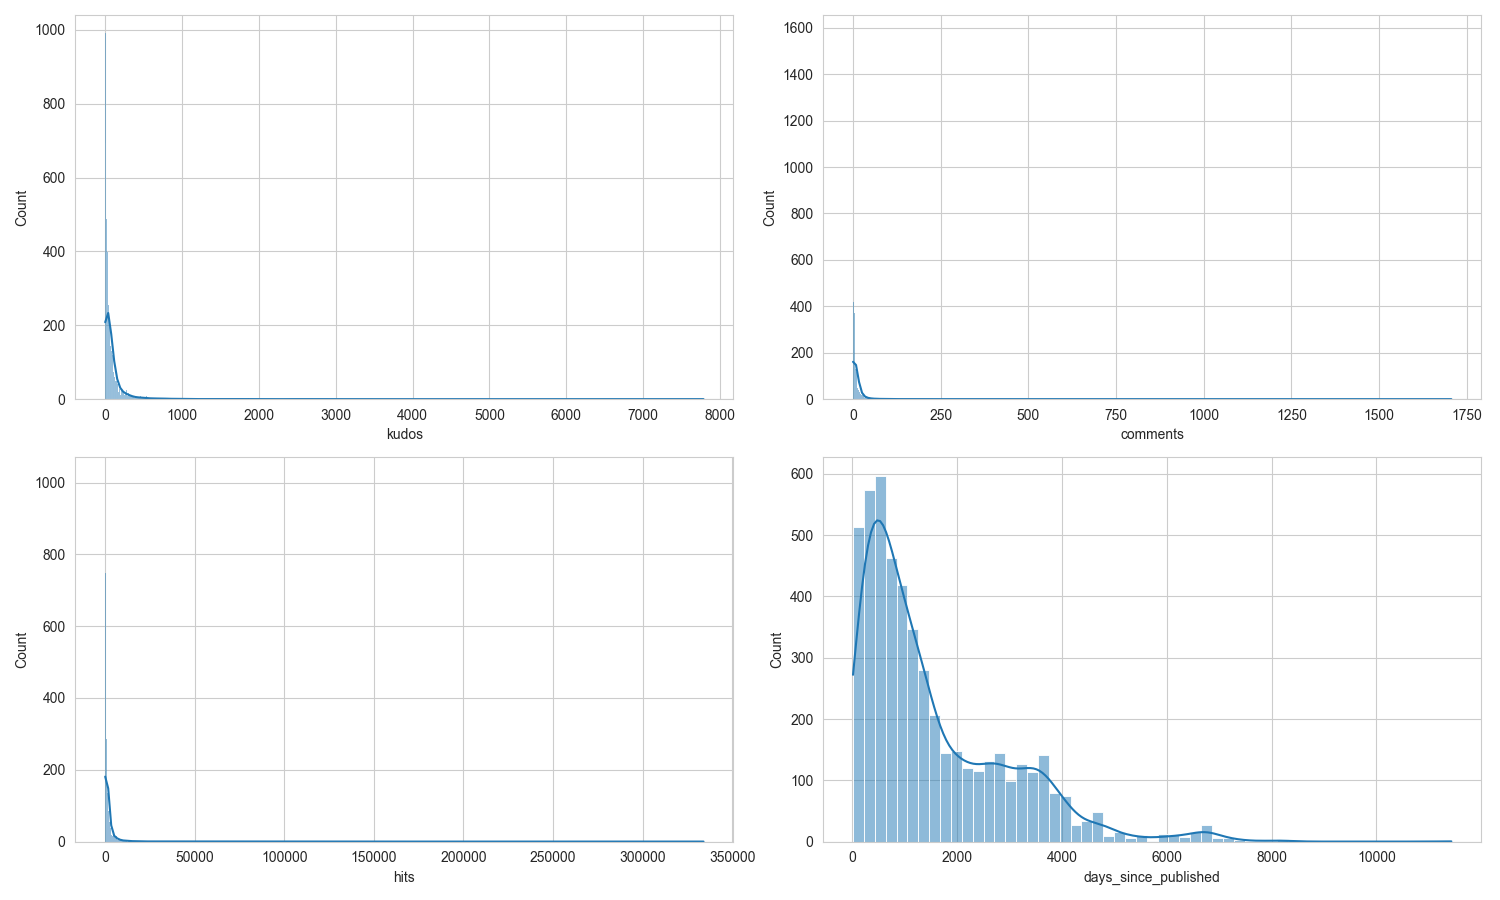
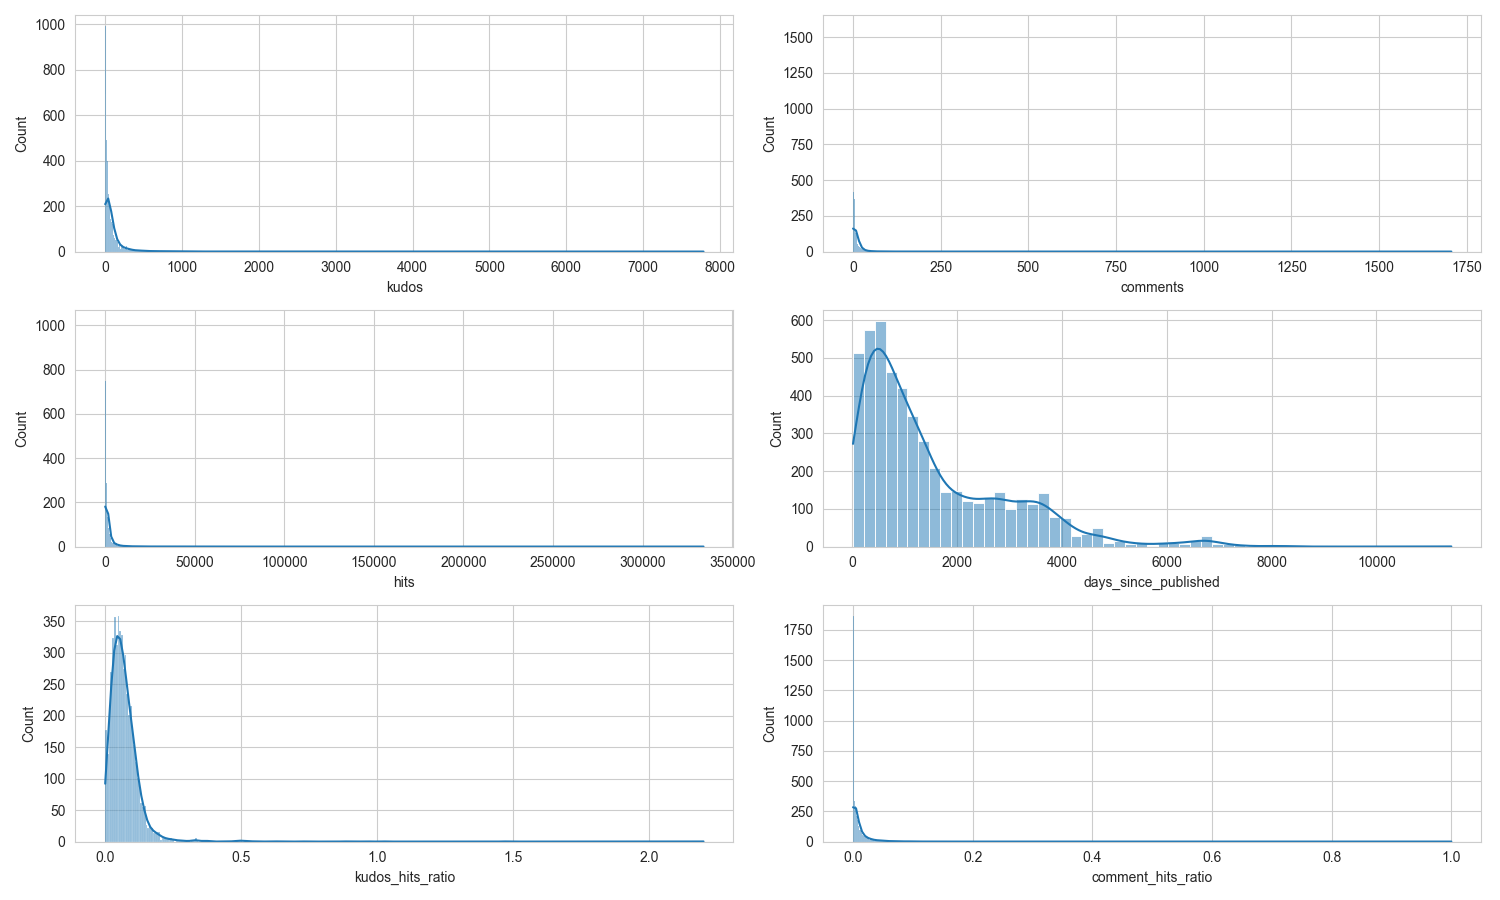
modelling time

diff --git a/resources/handle_metadata.py b/resources/handle_metadata.py
@@ -4,8 +4,13 @@ import pandas as pd
 import seaborn as sns
 import matplotlib.pyplot as plt
 from scipy.stats import shapiro
+import numpy as np
 import statsmodels.api as sm
+import time
 
+# timestamp
+ts = time.strftime("%Y-%m-%d")
+print("Timestamp:", ts)
 # %%
 df = pd.read_json("../data/fanfics_metadata_with_sensorimotor_scores.json", orient='records', lines=True)
 
@@ -20,6 +25,21 @@ sensitivity_labels = [x for x in sensitivity_df.columns if x.startswith('sensiti
 sensitivity_df = sensitivity_df[sensitivity_labels]
 df = df.merge(sensitivity_df, how='left', on='work_id')
 df.head()
+
+# %%
+
+# OBS dropping rows
+
+print("Original length of dataframe:", len(df))
+# drop rows with missing sensorimotor scores
+sense_cols = [f'normalized_{sense}.mean' for sense in ['auditory', 'gustatory', 'olfactory', 'haptic', 'visual', 'interoceptive']]
+engagement_cols = ['kudos', 'comments', 'hits', 'days_since_published']
+
+# drop rows with value == 0 in any sense cols
+for col in sense_cols:
+    df = df[df[col] != 0]
+print("Length after dropping rows with no sensorimotor scores:", len(df))
+
 # %%
 
 # fix some cols
@@ -37,27 +57,6 @@ for col in reception_cols:
     # fillna with 0
     df[col] = df[col].fillna(0)
 
-# %%
-
-# we want to look at distributions
-sense_cols = [f'normalized_{sense}.mean' for sense in ['auditory', 'gustatory', 'olfactory', 'haptic', 'visual', 'interoceptive']]
-engagement_cols = ['kudos', 'comments', 'hits', 'days_since_published']
-
-tmp = df.sample(n=4000, random_state=42) # sample for speed
-
-for col in sense_cols + engagement_cols:
-    print(f"Shapiro-Wilk test for {col}:")
-    data = tmp[col].dropna()
-    stat, p = shapiro(data)
-    print(f"  Statistic={stat:.4f}, p-value={p:.4f}")
-    plt.figure(figsize=(8, 4))
-    sns.set_style("whitegrid")
-    sns.histplot(df[col].dropna(), kde=True)
-    plt.title(f'Distribution of {col}')
-    plt.xlabel(col)
-    plt.ylabel('Frequency')
-    plt.show()
-
 
 # %%
 
@@ -65,8 +64,8 @@ for col in sense_cols + engagement_cols:
 
 # we use ratios since "hits", for example, are very sensitive to time on the platform.
 # ratios are not subject to drift in the same way. It’s a conversion rate: how many of the people who saw this actually cared.
-df['kudos_hits_ratio'] = df['kudos'] / df['hits'].replace(0, 1) # avoid division by zero
-df['comment_hits_ratio'] = df['comments'] / df['hits'].replace(0, 1)
+df['kudos_hits_ratio'] = df['kudos'] / df['hits']#.replace(0, 1) # avoid division by zero
+df['comment_hits_ratio'] = df['comments'] / df['hits']#.replace(0, 1)
 # still, we do see that they are related to time on platform, so we can try to regress out time. Essentially, we want a kudo-ratio without the age-effect.
 # age-effect might haver to do with visibility on the platform, or with changing user behavior over time; random stuff like it's not on the top page anymore, etc.
 # lets ask: Across the entire dataset, how does kudos/hits typically drift as a function of months since publication?
@@ -75,28 +74,125 @@ df['comment_hits_ratio'] = df['comments'] / df['hits'].replace(0, 1)
 # most fics will be close to zero, some will be strongly positive (doing better than expected) or negative (doing worse than expected).
 # simple linear regression to get residuals
 # for kudos
-# x = sm.add_constant(df['days_since_published']) # adding constant so we know we have a baseline
-# y = df['kudos_hits_ratio']
-# model = sm.OLS(y, x).fit()
-# df['kudos_ratio_resid'] = model.resid
-# # same for comments
-# x = sm.add_constant(df['days_since_published'])
-# y = df['comment_hits_ratio']
-# model_comments = sm.OLS(y, x).fit()
-# df['comment_ratio_resid'] = model_comments.resid
 
-# linear regression on non-NaN rows
-valid_kudos = df['kudos_hits_ratio'].notna()
-x = sm.add_constant(df.loc[valid_kudos, 'days_since_published'])
-y = df.loc[valid_kudos, 'kudos_hits_ratio']
-model = sm.OLS(y, x).fit()
-df.loc[valid_kudos, 'kudos_ratio_resid'] = model.resid
+# print na in engagement cols
+print("Number of NaNs in engagement ratios before regression:", df['kudos_hits_ratio'].isna().sum(), df['comment_hits_ratio'].isna().sum())
 
-valid_comments = df['comment_hits_ratio'].notna()
-x = sm.add_constant(df.loc[valid_comments, 'days_since_published'])
-y = df.loc[valid_comments, 'comment_hits_ratio']
-model_comments = sm.OLS(y, x).fit()
-df.loc[valid_comments, 'comment_ratio_resid'] = model_comments.resid
+# we want to look at distributions
+tmp = df.sample(n=4000, random_state=42) # sample for speed
+
+# subplot setup
+fig, axes = plt.subplots(3, 2, figsize=(15, 9))
+axes = axes.flatten()
+for i, sense in enumerate(sense_cols):
+    # shapiro
+    stat, p = shapiro(tmp[sense].dropna())
+    print(f'Shapiro-Wilk test for {sense}: stat={stat:.4f}, p={p:.4f}')
+    ax = axes[i]
+    sns.histplot(df[sense], kde=True, ax=ax)
+plt.tight_layout()
+plt.savefig(f"../figs/distributions/{ts}_sensorimotor_distributions.png")
+plt.show()
+
+fig, axes = plt.subplots(3, 2, figsize=(15, 9))
+axes = axes.flatten()
+for i, col in enumerate(engagement_cols + ['kudos_hits_ratio', 'comment_hits_ratio']):
+    # shapiro
+    stat, p = shapiro(tmp[col].dropna())
+    print(f'Shapiro-Wilk test for {col}: stat={stat:.4f}, p={p:.4f}')
+    ax = axes[i]
+    sns.histplot(df[col], kde=True, ax=ax)
+plt.tight_layout()
+plt.savefig(f"../figs/distributions/{ts}_engagement_distributions.png")
+plt.show()
+
+# alright, very long tails for the engagement metrics
+# also ratios are quite skewed
+# we should log-transform them before regression
+
+# %%
+
+df['log_age'] = np.log(df['days_since_published'].replace(0, 1))
+X_log = sm.add_constant(df['log_age'])
+#X = sm.add_constant(df['days_since_published'])
+
+engagement_cols = ['kudos_hits_ratio', 'comment_hits_ratio', 'hits', 'kudos', 'comments']
+
+for col in engagement_cols:
+    y = df[col]
+    y_log = np.log(y.replace(0, 1)) # avoid log(0)
+    print(f"\nProcessing OLS for {col}...")
+    print(f"OLS summary for {col}:")
+    model = sm.OLS(y_log, X_log, missing='drop').fit()
+    # model summary
+    print(model.summary())
+    df[f'{col}_resid'] = model.resid
+    # add spearman correlation of residuals with days_since_published
+    print("\n")
+    print(f"spearman of residuals {col} with days_since_published:")
+    corr = df[[f'{col}_resid', 'days_since_published']].dropna().corr(method='spearman').iloc[0,1]
+    print(f"{corr:.4f}")
+
+    # and lets plot the regression
+    plt.figure(figsize=(8, 6))
+    sns.scatterplot(x='days_since_published', y=y_log, data=df, alpha=0.5)
+    sns.lineplot(x='days_since_published', y=model.fittedvalues, color='red', data=df)
+    plt.title(f'Log-Transformed {col} vs. Days Since Published with Regression Line')
+    plt.xlabel('Days Since Published')
+    plt.ylabel(f'Log-Transformed {col}')
+    plt.show()
+
+df.head()
+# %%
+# check nan in author
+print("Number of NaNs in author column:", df['author'].isna().sum())
+# unlist authorname ['X'] -> 'X'
+df['author'] = df['author'].apply(lambda x: x[0] if isinstance(x, list) and len(x) > 0 else x)
+
+# %%
+import statsmodels.api as sm
+import statsmodels.formula.api as smf
+import numpy as np
+import pandas as pd
+
+df['author'] = df['author'].astype('category')
+
+
+# Mixed-effects model to regress out age effect with random intercept for author
+for col in engagement_cols:
+    # Log-transform all metrics
+    df[f'log_{col}'] = np.log(df[col].replace(0, 1)).astype(float)
+    
+    # Drop rows with missing values in dependent, predictor, or group
+    model_df = df[['author', f'log_{col}', 'log_age', 'days_since_published']].dropna()
+    
+    print(f"\nProcessing MixedLM for {col} (log-transformed)...")
+    
+    formula = f'log_{col} ~ log_age'
+    
+    md = smf.mixedlm(formula, model_df, groups=model_df["author"])
+    mdf = md.fit(reml=False)
+    
+    print(mdf.summary())
+    
+    # Store residuals
+    model_df[f'{col}_resid'] = mdf.resid
+    
+    # Check residual correlation with days_since_published
+    corr = model_df[[f'{col}_resid', 'days_since_published']].corr(method='spearman').iloc[0,1]
+    print(f"Spearman correlation of residuals with days_since_published: {corr:.4f}")
+
+    # Plot regression results
+    plt.figure(figsize=(8, 6))
+    sns.scatterplot(x='days_since_published', y=df[f'log_{col}'], data=df, alpha=0.5)
+    sns.lineplot(x='days_since_published', y=mdf.fittedvalues, color='red', data=df)
+    plt.title(f'Log {col} vs. Days with MixedLM Regression Line')
+
+
+
+# %%
+
+# finally
 
 # add the maturity rating as a numeric code
 rating_map = {
